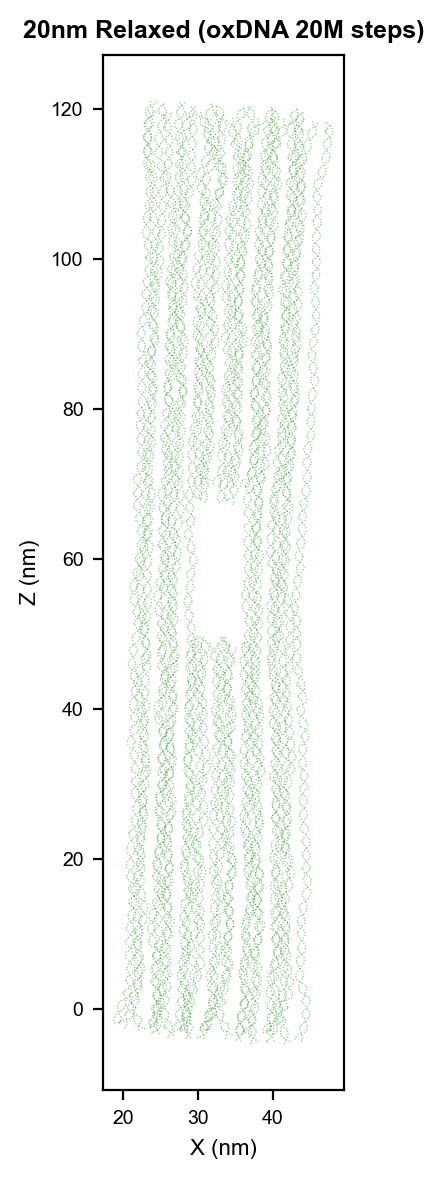
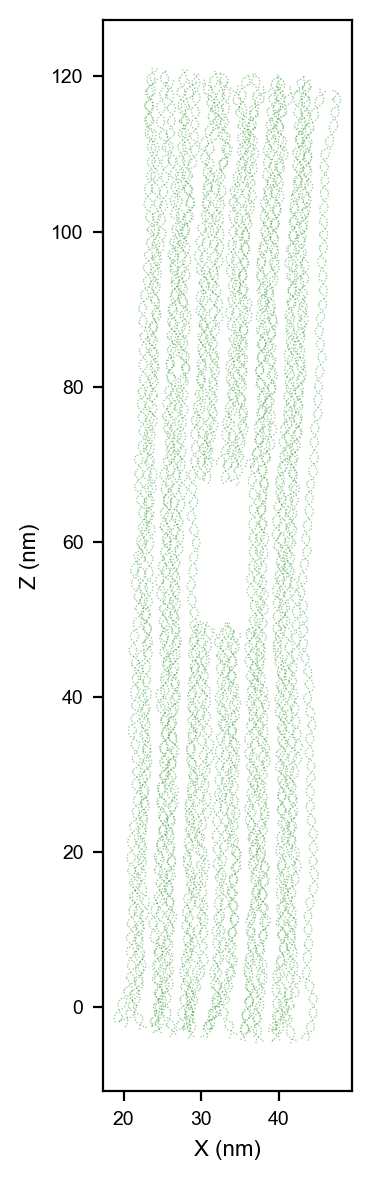
Remove titles from cavity oxDNA/tacoxDNA panels

diff --git a/tools/gen_cavity_panels.py b/tools/gen_cavity_panels.py
@@ -31,7 +31,7 @@ def plot_xz_front(coords, ax, title, color='steelblue'):
     ax.scatter(coords[:, 0], coords[:, 2], s=0.3, alpha=0.4, c=color, edgecolors='none')
     ax.set_xlabel('X (nm)', fontsize=8)
     ax.set_ylabel('Z (nm)', fontsize=8)
-    ax.set_title(title, fontsize=9, fontweight='bold')
+    # Title omitted for paper figure compositing
     ax.set_aspect('equal')
     ax.tick_params(labelsize=7)
     # Compute bounding box dimensions
@@ -55,7 +55,7 @@ def main():
 
         # Individual initial panel
         fig, ax = plt.subplots(figsize=(4, 6))
-        dims = plot_xz_front(initial, ax, f'{name} Initial (tacoxDNA)', color='steelblue')
+        dims = plot_xz_front(initial, ax, '', color='steelblue')
         plt.tight_layout()
         p1 = f'results/paper_figure_assets/cavity_{name}_initial.png'
         fig.savefig(p1, dpi=200, bbox_inches='tight', facecolor='white')
@@ -64,7 +64,7 @@ def main():
 
         # Individual relaxed panel
         fig, ax = plt.subplots(figsize=(4, 6))
-        dims = plot_xz_front(relaxed, ax, f'{name} Relaxed (oxDNA 20M steps)', color='green')
+        dims = plot_xz_front(relaxed, ax, '', color='green')
         plt.tight_layout()
         p2 = f'results/paper_figure_assets/cavity_{name}_relaxed.png'
         fig.savefig(p2, dpi=200, bbox_inches='tight', facecolor='white')
